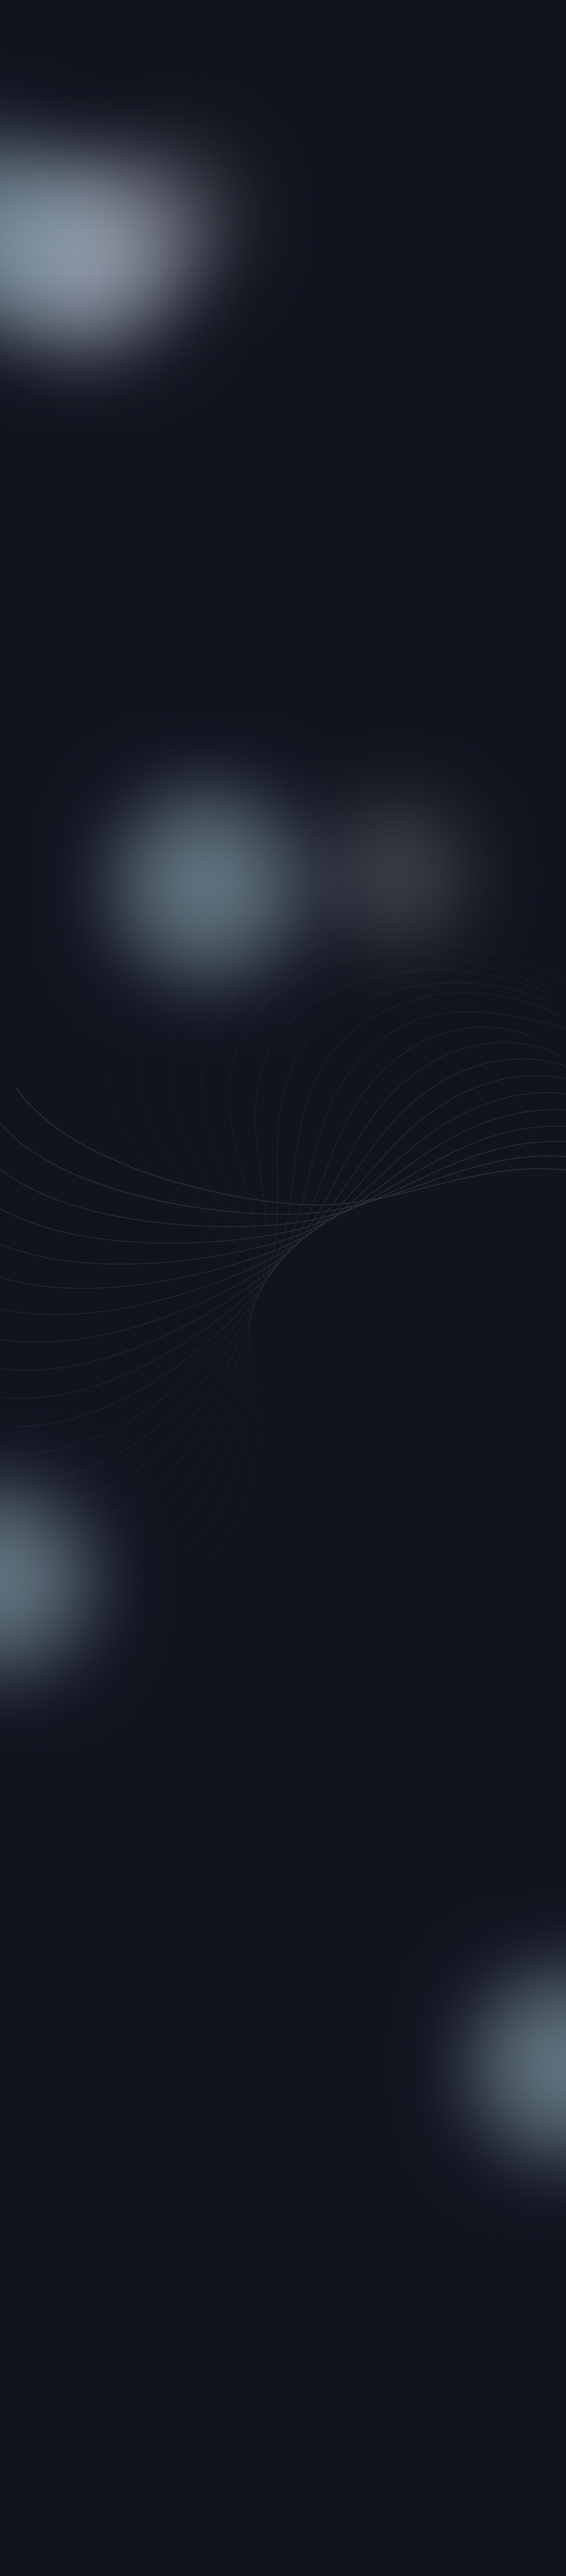
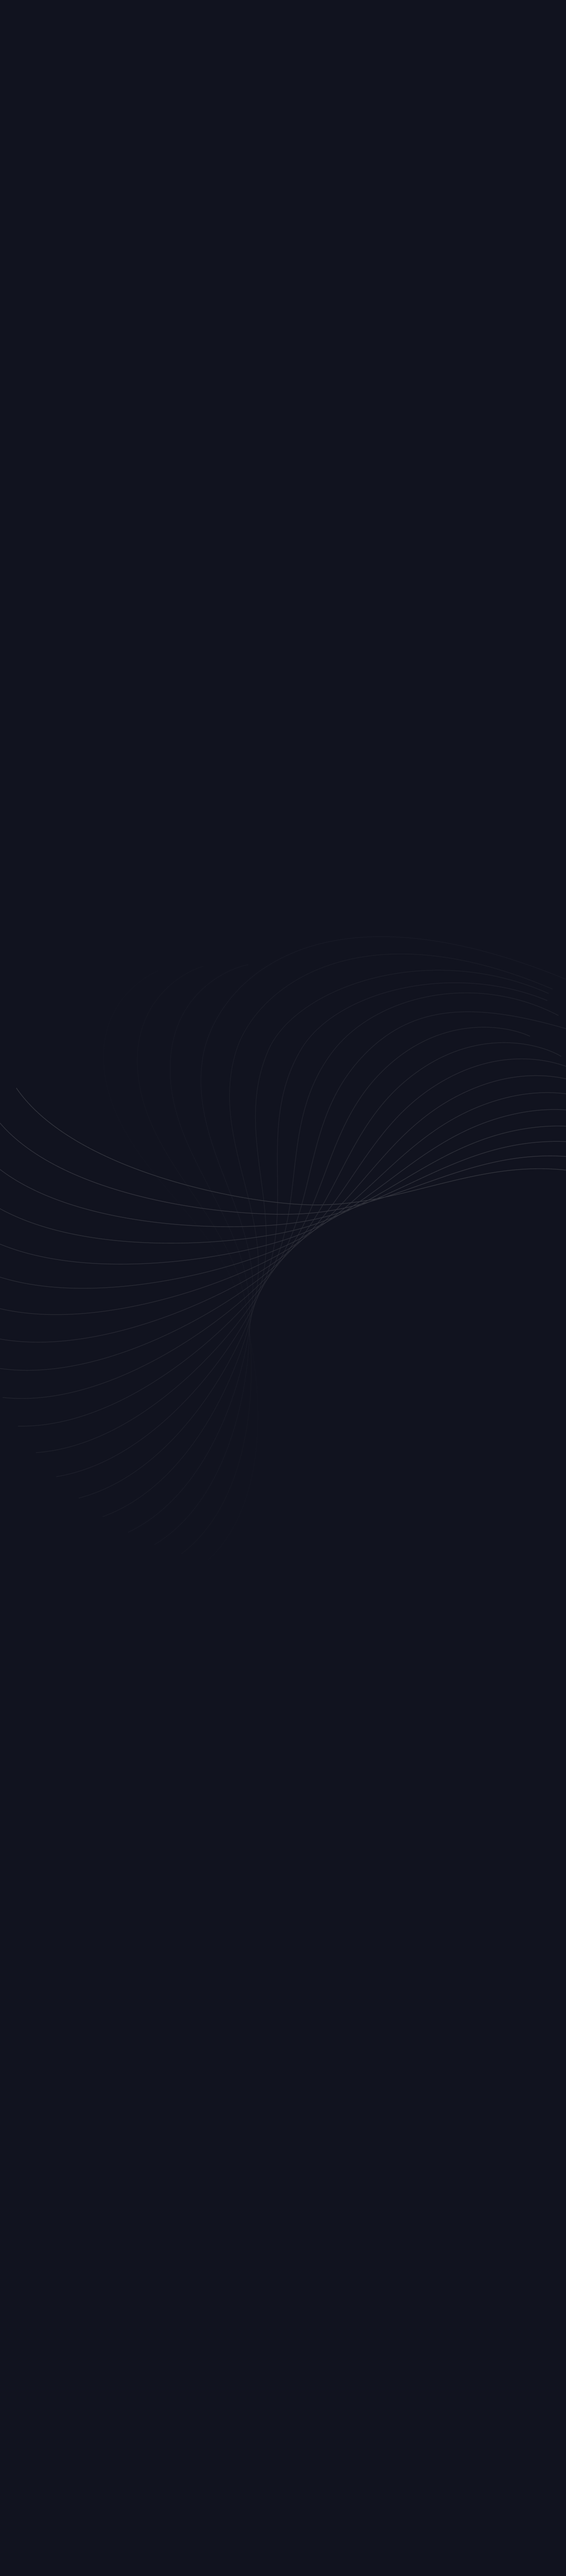
fin

diff --git a/src/css/main-yahtsblock.css b/src/css/main-yahtsblock.css
@@ -24,10 +24,54 @@
         cursor: pointer;
     }
     @media screen and (min-width: 1280px) {
+        .yahts-blemish{
+            width: 414px;
+            height: 414px;
+            position: absolute;
+            z-index: 50;
+            left: 320px;
+            top: 1940px;
+            transform: rotate(-45.074deg);
+            flex-shrink: 0;
+            border-radius: 414px;
+            opacity: 0.6;
+            background: #91AFBA;
+            filter: blur(100px);
+            margin: 0 auto;
+        }
+        .yahts-blemish-two{
+            position: absolute;
+            z-index: 50;
+            left: 770px;
+            top: 1900px;
+            width: 316px;
+            height: 316px;
+            transform: rotate(-45.074deg);
+            flex-shrink: 0;
+            border-radius: 316px;
+            opacity: 0.4;
+            background: #A6A9B2;
+            filter: blur(100px);
+            margin: 0 auto;
+        }
+        /* .yahts-con-shade{
+            width: 260px;
+            height: 124px;
+            position: absolute;
+            z-index: 1;
+            left: 1200px;
+            top: 350px;
+            background-color: #11131F;
+            opacity: 1;
+            border-bottom-left-radius: 24px;
+            border-bottom-right-radius: 24px;
+            margin: 0 auto;
+        } */
+
         
         .desctop-img-yahts{
             position: fixed;
-            z-index: 0;
+            z-index: -20;
 
 
         }
@@ -73,6 +117,10 @@
             letter-spacing: -0.81px;
             background-color: transparent;
         }
+        .yahts-send-buuton:hover, .yahts-send-buuton:focus{
+            border: 1px solid var(--white, #54f190);
+            color: var(--white, #54f190);
+        }
         .yaht-butt{
             display: flex;
             padding: 14px 16px;
@@ -84,11 +132,12 @@
         .yahts-container{
             position: relative;
             z-index: 100;
-            top: -110px;
+            opacity: 1;
+            top: -100px;
             width: 1216px;
             height: 1114px;
             margin: 0 auto;
-            margin-bottom: 164px;
+            margin-bottom: 64px;
         }
         .yaht-butt-mob{
             display: none;
@@ -223,6 +272,49 @@
 
 /* Planshet */
 @media screen and (min-width: 768px) and (max-width: 1279px){
+    .yahts-blemish{
+        width: 414px;
+        height: 414px;
+        position: relative;
+        z-index: 50;
+        left: 70px;
+        top: -220px;
+        transform: rotate(-45.074deg);
+        flex-shrink: 0;
+        border-radius: 414px;
+        opacity: 0.5;
+        background: #91AFBA;
+        filter: blur(100px);
+        margin: 0 auto;
+    }
+    .yahts-blemish-two{
+        position: relative;
+        z-index: 50;
+        left: 400px;
+        top: -500px;
+        width: 316px;
+        height: 316px;
+        transform: rotate(-45.074deg);
+        flex-shrink: 0;
+        border-radius: 316px;
+        opacity: 0.4;
+        background: #A6A9B2;
+        filter: blur(100px);
+        margin: 0 auto;
+    }
+    .yahts-con-shade{
+        width: 260px;
+        height: 124px;
+        position: relative;
+        z-index: 1;
+        left: 86px;
+        top: -730px;
+        background-color: #11131F;
+        opacity: 0.7;
+        border-bottom-left-radius: 24px;
+        border-bottom-right-radius: 24px;
+        margin: 0 auto;
+    }
     .desctop-img-yahts{
         display: none;
     }

diff --git a/src/css/styles.css b/src/css/styles.css
@@ -39,38 +39,22 @@ body{
     margin: 0;
     width: 100%;
     height: 100%;
-    background-image: url(/img/main-yahtsblock/YachtAdventures.png);
     background-repeat: no-repeat;
     background-position: center;
     background-size: cover;
   }
   @media screen and (min-width: 1280px){
     body{
-      width: 100%;
-      height: 100%;
-      background-image: url(/img/main-yahtsblock/YachtAdventures.png);
-      background-repeat: no-repeat;
-      background-position: center;
-      background-size: cover;
+      background-image: url(../img/main-yahtsblock/YachtAdventures.png);
     }
   }
   @media screen and (max-width: 1279px){
     body{
-      width: 100%;
-      height: 100%;
-      background-image: url(/img/main-yahtsblock/Tablet.png);
-      background-repeat: no-repeat;
-      background-position: center;
-      background-size: cover;
+      background-color: #11131F;
   }
 }
 @media screen and (max-width: 767px){
   body{
-    width: 100%;
-    height: 100%;
-    background-image: url(/img/main-yahtsblock/Mobile.png);
-    background-repeat: no-repeat;
-    background-position: center;
-    background-size: cover;
+    background-color: #11131F;
 }
 }

diff --git a/src/partials/main-yahtsblock.html b/src/partials/main-yahtsblock.html
@@ -14,6 +14,9 @@
           srcset="./img/main-aboutblock/img_yahtdtm@1x.png 1x, ./img/main-aboutblock/img_yahtdtm@2x.png 2x"
           src="./img/main-aboutblock/img_yahtdtm@1x.png 1x" alt="yacht" width="260" height="244">
     </div>
+    <div class="yahts-blemish"></div>
+    <div class="yahts-blemish-two"></div>
+    <div class="yahts-con-shade"></div>
     <div class="yahts-container">
         <div class="yahts-text-block">
             <h3 class="yahts-header" id=yachts>Choose your dream yacht and sail away into the sunset</h3>
